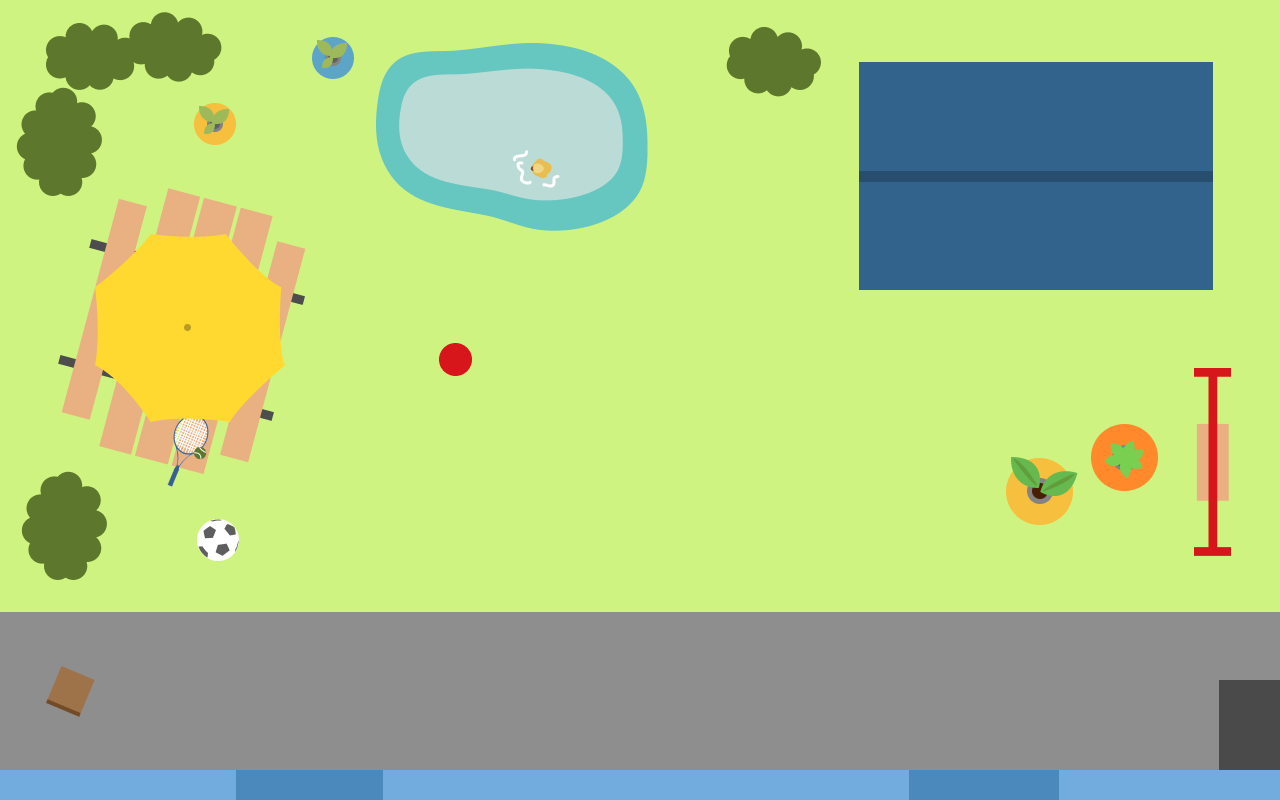
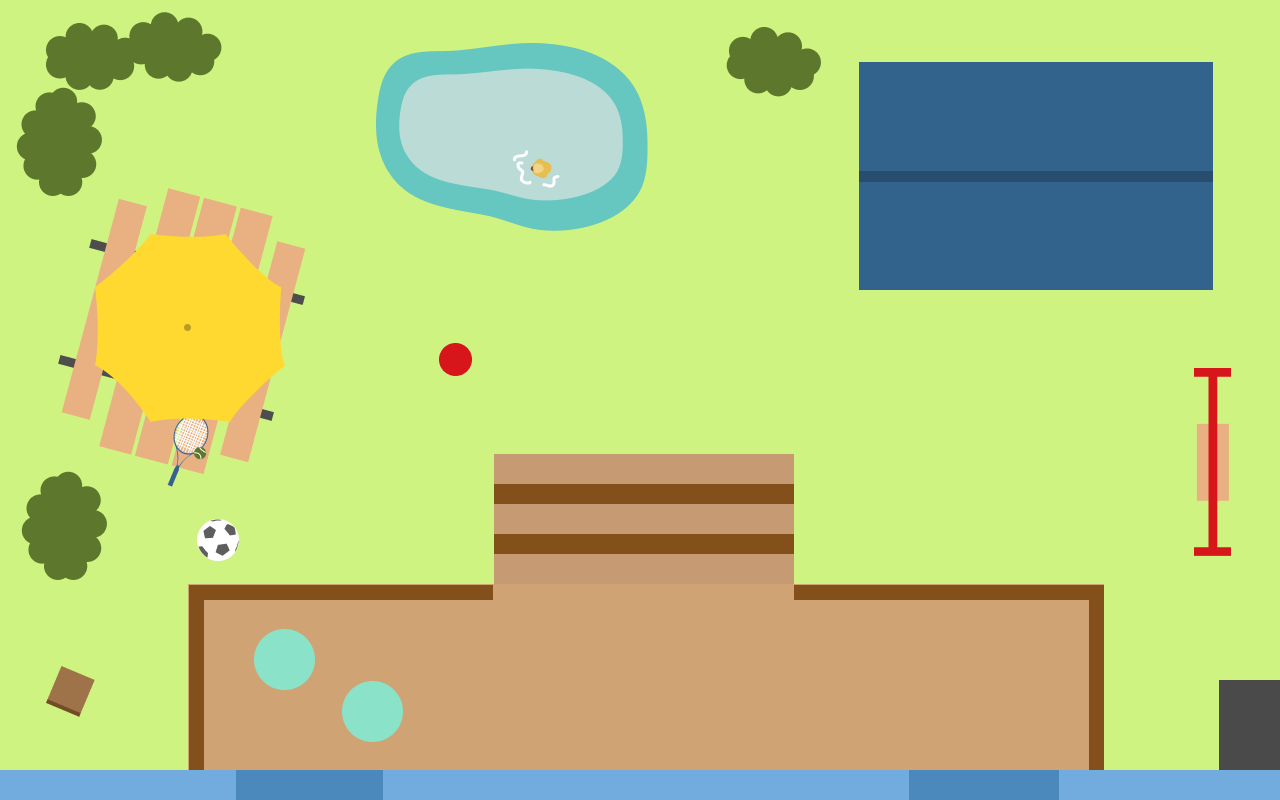
backyard

diff --git a/backyard/backyard.css b/backyard/backyard.css
@@ -1,114 +1,134 @@
 /* General page styling */
 body {
-    margin: 0;
-    overflow: hidden;
-    display: flex;
-    justify-content: center;
-    align-items: center;
-    height: 100vh;
-    background-color: #f0f0f0;
+  margin: 0;
+  overflow: hidden;
+  display: flex;
+  justify-content: center;
+  align-items: center;
+  height: 100vh;
+  background-color: #f0f0f0;
+}
+
+#game-container {
+  position: relative;
+  width: 1280px;
+  height: 800px;
+  background-color: #f0f0f0;
+  display: flex;
+  justify-content: center;
+  align-items: center;
+  overflow: hidden;
+}
+
+/* Cat element styling */
+#cat {
+  position: absolute;
+  width: 100px;
+  height: 100px;
+  background-image: url('meow.png'); /* Path to the cat image */
+  background-size: contain;
+  background-repeat: no-repeat;
+  top: 200px;
+  left: 200px;
+}
+
+/* Canvas styling */
+#gameCanvas {
+  width: 1280px;
+  height: 800px;
+  background-color: #7c6c61;
+  border-radius: 10px;
+}
+
+/* Breakable object styling */
+.breakableObject {
+  position: absolute;
+  width: 50px;
+  height: 50px;
+  transition: opacity 0.5s, transform 0.5s;
+}
+/* Smokey effect */
+@keyframes smokeEffect {
+  0% {
+    opacity: 1;
+    transform: scale(1);
+    filter: blur(0px);
   }
-  
-  #game-container {
-    position: relative;
-    width: 1280px;
-    height: 800px;
-    background-color: #f0f0f0;
-    display: flex;
-    justify-content: center;
-    align-items: center;
-    overflow: hidden;
+  50% {
+    opacity: 0.5;
+    transform: scale(1.2);
+    filter: blur(5px);
   }
-  
-  /* Cat element styling */
-  #cat {
-    position: absolute;
-    width: 100px;
-    height: 100px;
-    background-image: url('meow.png'); /* Path to the cat image */
-    background-size: contain;
-    background-repeat: no-repeat;
-    top: 200px;
-    left: 200px;
+  100% {
+    opacity: 0;
+    transform: scale(1.5);
+    filter: blur(10px);
   }
-  
-  /* Canvas styling */
-  #gameCanvas {
-    width: 1280px;
-    height: 800px;
-    background-color: #7c6c61;
-    border-radius: 10px;
-  }
-  
-  /* Breakable object styling */
-  .breakableObject {
-    position: absolute;
-    width: 50px;
-    height: 50px;
-    transition: opacity 0.5s, transform 0.5s;
-  }
-  /* Smokey effect */
-  @keyframes smokeEffect {
-    0% {
-      opacity: 1;
-      transform: scale(1);
-      filter: blur(0px);
-    }
-    50% {
-      opacity: 0.5;
-      transform: scale(1.2);
-      filter: blur(5px);
-    }
-    100% {
-      opacity: 0;
-      transform: scale(1.5);
-      filter: blur(10px);
-    }
-  }
-  
-  .smokey {
-    animation: smokeEffect 1s forwards;
-  }
-  
-  /* Initial positions for objects */
-  #object1 {
-    top: 49px;
-    left: 580px;
-    height: auto;
-    width: auto;
-  }
-  
-  #object2 {
-    top: 15px;
-    left: 688px;
-    height: auto;
-    width: auto;
-  }
-  
-  #object3 {
-    top: 556px;
-    left: 301px;
-    height: auto;
-    width: auto;
-  }
-  
-  #object4 {
-    top: 165px;
-    left: 1002px;
-    height: auto;
-    width: auto;
-  }
-  
-  #object5 {
-    top: 4px;
-    left: 897px;
-    height: auto;
-    width: auto;
-  }
-  
-  #door {
-    top: 741px;
-    left: 975px;
-    height: auto;
-    width: auto;
-  }
+}
+
+.smokey {
+  animation: smokeEffect 1s forwards;
+}
+
+/* Initial positions for objects */
+#object1 { 
+  top: 462px;
+  left: 312px;
+  height: auto;
+  width: auto;
+}
+
+#object2 {
+  top: 424px;
+  left: 1006px;
+  height: auto;
+  width: auto;
+}
+
+#object3 {
+  top: 619px;
+  left: 328px;
+  height: auto;
+  width: auto;
+}
+
+#object4 {
+  top: 696px;
+  left: 104px;
+  height: auto;
+  width: auto;
+}
+
+#object5 {
+  top: 103px;
+  left: 194px;
+  height: auto;
+  width: auto;
+}
+
+#door {
+  top: 770px;
+  left: 236px;
+  height: auto;
+  width: auto;
+}
+#door2 {
+  top: 770px;
+  left: 909px;
+  height: auto; 
+  width: auto;
+}
+
+#object6 {
+  top: 700px;
+  left: 1121px;
+  height: auto;
+  width: auto;
+}
+
+#object7 {
+  top: 37px;
+  left: 312px;
+  height: auto;
+  width: auto;
+}

diff --git a/backyard/backyard.js b/backyard/backyard.js
@@ -14,7 +14,7 @@ background.src = 'backyard.png'; // Replace with the correct path to your backgr
 const cat = document.getElementById("cat");
 let catX = 200; // Initial X position
 let catY = 200; // Initial Y position
-const catSpeed = 3; // Cat speed for movement
+const catSpeed = 6; // Cat speed for movement
 
 // Movement tracking
 const movement = {
@@ -26,14 +26,17 @@ const movement = {
 
 // Breakable objects and status tracking, including the door with isDoor property
 const objects = [
-  { element: document.getElementById("object1"), brokenSrc: 'brokenvase.png' },
-  { element: document.getElementById("object2"), brokenSrc: 'brokenplant.png' },
-  { element: document.getElementById("object3"), brokenSrc: 'brokenbook.png' },
-  { element: document.getElementById("object4"), brokenSrc: 'brokentable.png' },
-  { element: document.getElementById("object5"), brokenSrc: 'brokenlamp.png' },
-  { element: document.getElementById("door"), isDoor: true } // Door with isDoor flag
+  { element: document.getElementById("object1"), brokenSrc: '../universal/broken-bigp.png' },
+  { element: document.getElementById("object2"), brokenSrc: '../universal/broken-bigy.png' },
+  { element: document.getElementById("object3"), brokenSrc: '../universal/broken-smolb.png' },
+  { element: document.getElementById("object4"), brokenSrc: '../universal/broken-smolb.png' },
+  { element: document.getElementById("object5"), brokenSrc: '../universal/broken-smoly.png' },
+  { element: document.getElementById("object6"), brokenSrc: '../universal/broken-smoly.png' },
+  { element: document.getElementById("object7"), brokenSrc: '../universal/broken-smolb.png' },
+  { element: document.getElementById("door"), isDoor: true }, // Door with isDoor flag
+  { element: document.getElementById("door2"), isDoor2: true}
 ];
-const objectStates = [false, false, false, false, false, false]; // Tracks whether objects are broken
+const objectStates = [false, false, false, false, false, false, false, false]; // Tracks whether objects are broken
 
 // Update the cat's position and image based on movement direction
 function updateCatPosition() {
@@ -91,8 +94,12 @@ function detectCollision() {
     ) {
       if (object.isDoor) {
         // Navigate to bathroom.html if the door is hit
-        window.location.href = '../bathroom/bathroom.html';
-      } else if (!objectStates[index]) {
+        window.location.href = '../hallway/hallway.html';
+      }
+      else if (object.isDoor2) {
+        window.location.href = '../hallway/hallway.html';
+      }
+       else if (!objectStates[index]) {
         handleCollision(object, index);
       }
     }

diff --git a/backyard/backyard.html b/backyard/backyard.html
@@ -10,12 +10,17 @@
   <div id="game-container">
     <canvas id="gameCanvas"></canvas>
     <div id="cat"></div>
-    <img src="plant1.png" alt="Object 1" class="breakableObject" id="object1">
-    <img src="plant2.png" alt="Object 2" class="breakableObject" id="object2">
-    <img src="tableplant.png" alt="Object 3" class="breakableObject" id="object3">
-    <img src="tablet.png" alt="Object 4" class="breakableObject" id="object4">
-    <img src="books.png" alt="Object 5" class="breakableObject" id="object5">
-    <img src="door.png" alt="Object 6" class="breakableObject" id="door">
+    <img src="../universal/bigp.png" alt="Object 1" class="breakableObject" id="object1">
+    <img src="../universal/bigy.png" alt="Object 2" class="breakableObject" id="object2">
+    <img src="../universal/smolb.png" alt="Object 3" class="breakableObject" id="object3">
+    <img src="../universal/smolb.png" alt="Object 4" class="breakableObject" id="object4">
+    <img src="../universal/smoly.png" alt="Object 5" class="breakableObject" id="object5">
+    <img src="../universal/smoly.png" alt="Object 6" class="breakableObject" id="object6">
+    <img src="../universal/smolb.png" alt="Object 7" class="breakableObject" id="object7">
+    <img src="door.png" alt="Object 8" class="breakableObject" id="door">
+    <img src="door.png" alt="Object 9" class="breakableObject" id="door2">
+
+  
   </div>
   <script src="backyard.js"></script>
   <script src="../universal/timer.js"></script>
